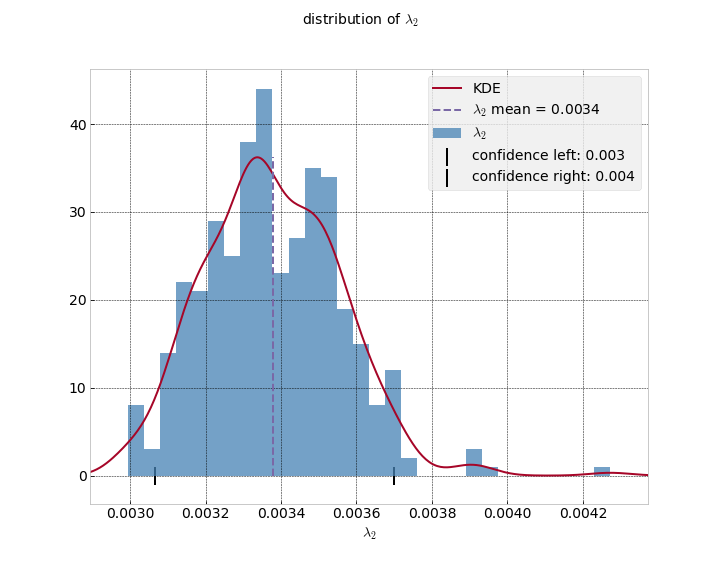
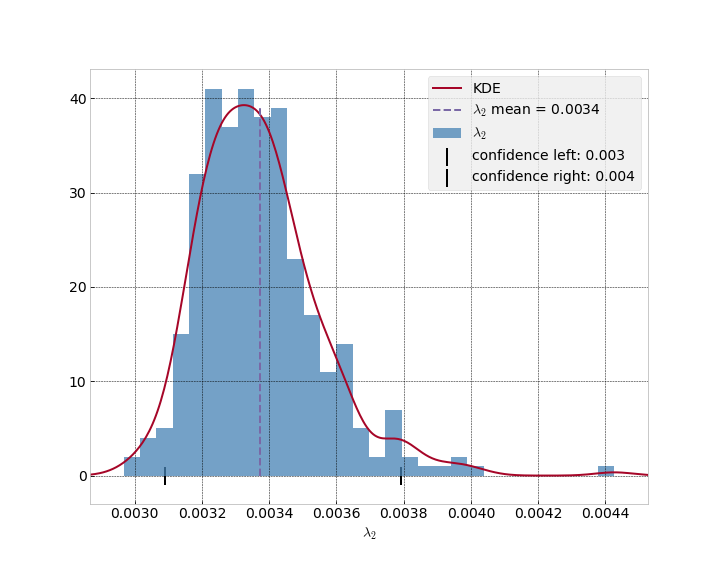
minor changes

diff --git a/02-presentation-v1/presentation.tex b/02-presentation-v1/presentation.tex
@@ -250,9 +250,9 @@ PDE problem must be computed on a grid, which includes observation points as a s
 \begin{frame}{Neural network rough computational complexity}
     Let us denote $n^{(k)}$ the number of neurons in the $k$th layer, $L$ as the number of layers. Then the number of multiplications of weights is: $$n_{mul} = \sum_{k=2}^{L} n^{(k)}n^{(k-1)}n^{(k-2)} + n^{(1)}n^{(0)}*2.$$
     The number of activation function use is: $$n_g = \sum_{k = 1}^{L} n^{(k)}.$$     
-    Then, we assume that matrices are quadratic and there the same number of neurons, and $L = n$:
-    $$n_{mul} = L*n^3 = n^4, ~ n_g = L*n = n^2.$$
-    Therefore, $ \text{ the computational complexity is } = n_{mul} + n_g = O(n^4) + O(n^2) \Longleftrightarrow O(n^4).$ 
+    Then, we assume that matrices are quadratic and there the same number of neurons, and $L \sim n$:
+    $$n_{mul} = L*n^3 \sim n^4, ~ n_g = L*n \sim n^2.$$
+    Therefore, $ \text{ the computational complexity is: }  n_{mul} + n_g \sim O(n^4) + O(n^2) \Longleftrightarrow O(n^4).$ 
 \end{frame}
 
 \begin{frame}{Hyperparameter $\gamma$ is chosen via $K$-fold cross-validation}
@@ -348,7 +348,7 @@ optimal value through the $K$-fold cross-validation.
     \end{column}
 \end{columns}
 
-\vspace{0.7cm}
+\vspace{0.4cm}
 \textbf{In the end:} choose $\gamma$ with the minimal averaged prediction error.
 \end{frame}
 
@@ -361,6 +361,16 @@ optimal value through the $K$-fold cross-validation.
     \quad - Store the resulting $\vec{\lambda}$.\\
     \vspace{0.5cm}
     Results of bootstrap are given below for each problem.
+\end{frame}
+
+\begin{frame}{Tensorflow}
+
+    Neural network is a graph of variables and a mathematical operations. And Tensorflow is a package that allows us to create such a graph and make computations. Therefore, in this work, we 
+    \begin{enumerate}
+        \item Set mathematical operations and placeholders for variables,
+        \item set configurations of a graph as a neural network,
+        \item process the computation.
+    \end{enumerate}
 \end{frame}
 
 % Common part (end)
@@ -496,11 +506,28 @@ $$u(t, x) = \frac{\pi \lambda_2}{\pi \lambda_2 e^{\{\pi^2 \lambda_2 t\}} - (e^{\
 
 \end{frame}
 
+%\begin{frame}{Burgers' equation neural network configuration}
+%    For this problem 3200 observations were used. The optimal
+%number of them is: $2*M^2$, where $M$ is the number of model
+%parameters. As we have 4 hidden layers with 10 neurons in each.
+%This number basically affects the underfitting and overfitting
+%of the neural network. \\
+
+%    
+%    The computational complexity according to the configuration
+%of an NN consists of the number of matrix multiplications and
+%the amount of the activation function use. 
+    
+%\end{frame}
 \begin{frame}{Burgers' equation neural network configuration}
-    For this problem 3200 observations were used. The optimal number of them is: $2*M^2$, where $M$ is the number of model parameters. As we have 4 hidden layers with 10 neurons in each. This number basically affects the underfitting and overfitting of the neural network. \\
-    
-    The computational complexity according to the configuration of an NN consists of the number of matrix multiplications and the amount of the activation function use. 
-    
+\begin{enumerate}
+    \item The following network configuration was used:\\
+$[2, 10, 10, 10, 10, 1]$.
+    \item The number of the parameters in $\boldsymbol{\theta}$ is: \\
+$2*10 + (10*10 + 10)*3 + 10*1 + 1 = 370$\\
+    \item $3700$ observatons were used.
+\end{enumerate}
+
 \end{frame}
 
 \begin{frame}{Observations}
@@ -518,67 +545,72 @@ Below, the exact solution is depicted on the uniform grid with 201 points in $x$
 \begin{frame}
 
 Hyperparameter $\gamma$ for the optimization problem was computed via cross-validation technique, using 5 folds. 
-\begin{figure}
-    \centering
-    \includegraphics[width=11cm, height=6cm]{images/burgers-cross_val_gamma.png}
-    \caption{Cross-validation result for the hyperparameter $\gamma = 0.0255$.}
-    \label{fig:cross_val_gamma}
-\end{figure}
+
+\centering
+\includegraphics[width=11cm, height=7cm]{images/burgers-cross_val_gamma.png}
+
+Cross-validation result for the hyperparameter $\gamma = 0.0255$.
 
 \end{frame}
 
 \begin{frame}
 
-Hyperparameter $\gamma$ for noisy data: $u_{obs} = u + N(0, \sigma^2),$ $\sigma = 0.05\sqrt{u}.$ 
+Parameter $\gamma$ for noisy data: $u_{obs} = u + N(0, \sigma^2),$ $\sigma = 0.05\sqrt{u}.$ 
 
-\begin{figure}
-    \centering
-    \includegraphics[width=11cm, height=6cm]{images/burgers-cross_val_gamma_noisy.png}
-    \caption{Cross-validation result for the hyperparameter $\gamma = 0.0255$ on the noisy data.}
-    \label{fig:cross_val_gamma_noisy}
-\end{figure}
-    
+\centering
+\includegraphics[width=11cm, height=7cm]{images/burgers-cross_val_gamma_noisy.png}\\
+
+Cross-validation result for the hyperparameter $\gamma = 0.0255$ on the noisy data.
+
 \end{frame}
 
-\begin{frame}{Results with $\gamma=0.02553$}
-Below, we present a comparison between the exact and the predicted solutions at the different time instants t = 0.25, 0.50, 0.75. Training the network with $\gamma=0.0255$ gives prediction $\lambda_1 =
+\begin{frame}{Clean data results $\gamma=0.02553$}
+Comparison between the exact and the predicted solutions at the different time instants t = 0.25, 0.50, 0.75. Training the network with $\gamma=0.0255$ gives prediction $\lambda_1 =
 0.986564, ~ \lambda_2 = 0.00338$ with MSE $u(x, t) \approx 0.011 \,\%$.
 
-\begin{figure}
-    \centering
-    \includegraphics[scale=0.43]{images/burgers-exact-predict.png}
-    \caption{The exact and predicted solutions of Burgers' equation in time.}
-    \label{fig:burgers-exact-predict}
-\end{figure}
+\centering
+\includegraphics[scale=0.43]{images/burgers-exact-predict.png}
+
+
+\end{frame}
+
+\begin{frame}{Noisy data results}
+Comparison between the exact and the predicted solutions for the noisy data. $u_{obs} = u + N(0, \sigma^2),$ $\sigma = 0.05\sqrt{u}.$ \\
+
+\centering
+\includegraphics[scale = 0.43]{02-presentation-v1/images/burgers-exact-pred-noisy.png}
+
+Solution error $\frac{||U_{pred} - U_{true}||_2}{||U_{true}||_2}$ is: 47\%
+
 
 \end{frame}
 
 \begin{frame}{}
 
 We have got the following bootstrapped results:
-\begin{figure}
+
 \centering
 \includegraphics[width = 9cm , height = 7cm]{images/burgers-bootstraped_l1.png}
-\caption{Bootstrapped parameter $\lambda_1$ for Burgers' equation.}
-\end{figure}
+
+Bootstrapped parameter $\lambda_1$ for Burgers' equation.
 
 \end{frame}
 
 \begin{frame}
 
-\begin{figure}
-    \centering
-    \includegraphics[width = 10cm , height = 8cm]{images/burgers-bootstraped_l2.png}
-    \caption{Bootstrapped parameter $\lambda_2$ for Burgers' equation.}
-    \label{fig:bootstraped_l2}
-\end{figure}
-    
-    
+\centering
+\includegraphics[width = 10cm , height = 8cm]{images/burgers-bootstraped_l2.png}
+
+Bootstrapped parameter $\lambda_2$ for Burgers' equation.
+
 \end{frame}
 
 \begin{frame}{Neural Network configuration vs $\lambda$ error}
 
-Below one can see the \% error in $\lambda_1$ and $\lambda_2$ for different neural network configurations. In the first column the number of the hidden layers is presented, in the second row the number of the neurons in each hidden layer is presented.
+Below one can see the \% error in $\lambda_1$ and $\lambda_2$ for
+different neural network configurations. In the first column the
+number of the hidden layers is presented, in the second row the
+number of the neurons in each hidden layer is presented.
 
 \begin{tabular}{lccc|ccc}
     \toprule
